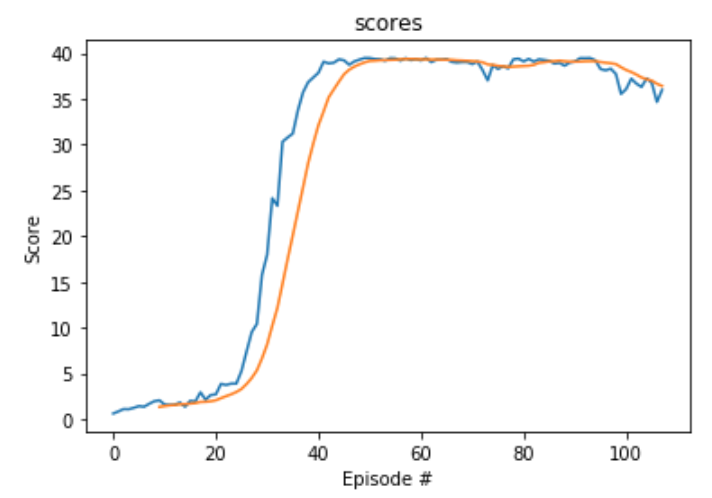
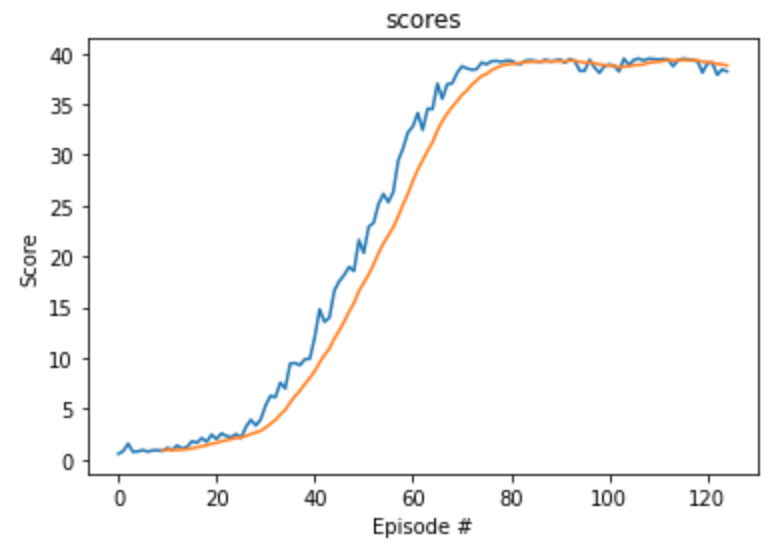
Retrained model

Changed region(s): [[0.0, 0.0, 0.9888, 0.994]]

diff --git a/Report.md b/Report.md
@@ -31,7 +31,7 @@ Hyperparameters used are
 
 ## Rewards
 
-The best performance was achieved by **DDPG** where the reward of +30 was achieved in 108 episodes (Environment solved in  episodes). This was done using enviroenemt with 20 agents in parallel.
+The best performance was achieved by **DDPG** where the reward of +30 was achieved in 125 episodes (Environment solved in 25 episodes). This was done using environment with 20 agents in parallel.
 
 ![ddpg](./Score.png?raw=true "Title")  
   
